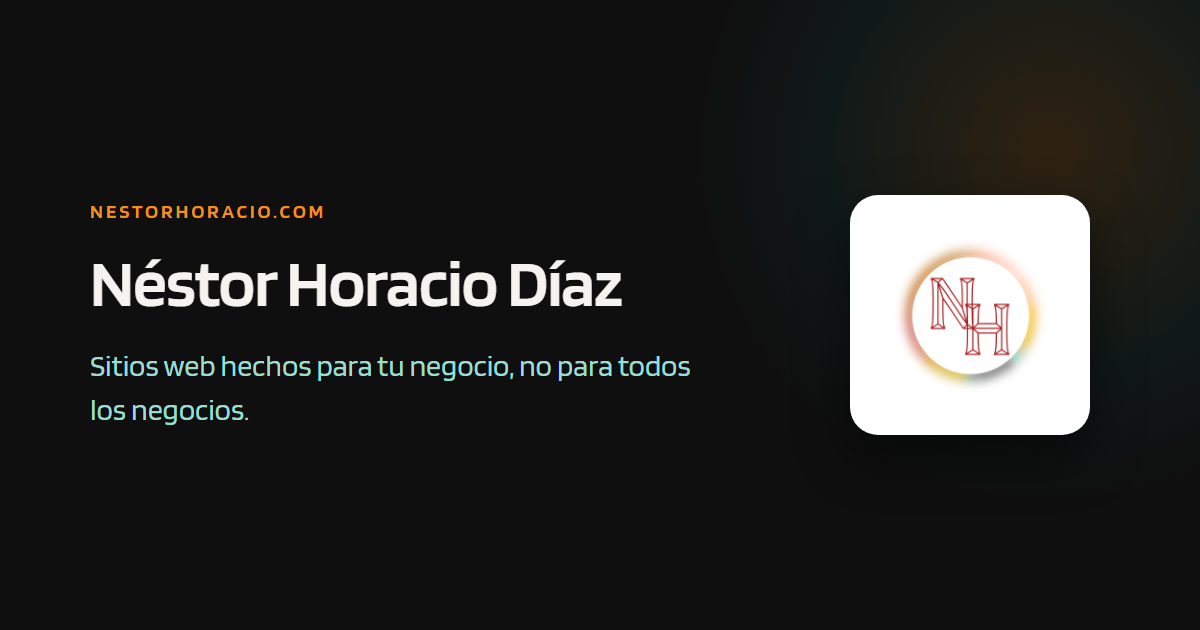
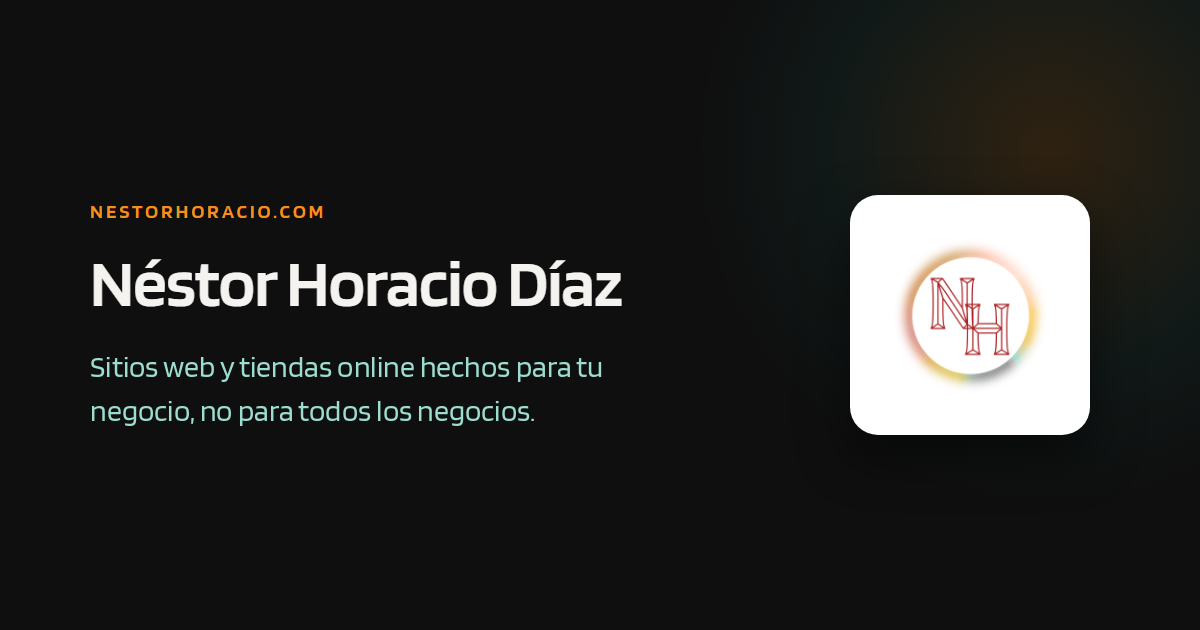
Actualiza la imagen OG con el tagline que incluye tiendas online

Changed region(s): [[0.0617, 0.6333, 0.4625, 0.6937], [0.0617, 0.573, 0.5858, 0.6032]]

diff --git a/ROADMAP.md b/ROADMAP.md
@@ -1,6 +1,10 @@
 # ROADMAP.md — nestorhoracio-astro
 
-## Estado actual (2026-11-25, sesión 20)
+## Estado actual (2026-11-25, sesión 21)
+
+**La imagen OG (`og-default.png`) ya tiene el tagline con tiendas online** (ver changelog). Falta el push, el deploy y, después, el `PURGE` y la verificación en producción.
+
+## Estado anterior (2026-11-25, sesión 20)
 
 **Servicio de tiendas online con WooCommerce agregado al home**, commit y push aprobados por el usuario (ver changelog). Tras el deploy: revisar el home en producción (`PURGE` si la caché muestra la versión vieja) y pedir reindexación en Search Console por el título nuevo. Las tres frases que podían no ser ciertas para una tienda ya se cambiaron por decisión del usuario.
 
@@ -51,6 +55,7 @@ El detalle de la etapa "sitio construido y deployado" (scaffold, diseño portado
 **Pendiente activo #1: cerrar lo del servicio de tiendas online (sesión 20).** Sin constancia de que ya esté hecho:
 1. Revisar el home en producción, incluido el botón "Consultame por WhatsApp" de la tarjeta de tiendas (`PURGE` si la caché muestra la versión vieja).
 2. Pedir la reindexación en Search Console por el título nuevo (lo hace el usuario).
+3. Tras el deploy de la imagen OG nueva (sesión 21): `PURGE` de `/images/og/og-default.png` y comprobar que producción sirve el archivo nuevo.
 
 **El frente del mail del formulario está cerrado.** Resumen del 2026-08-22 (sesión 12):
 - Formulario de contacto migrado de `mail()` nativo a la API de Resend — confirmado funcionando en producción real (mensaje de prueba desde `/contacto/` llegó a la bandeja de entrada de `nesthora@gmail.com`, no a spam).
@@ -69,6 +74,9 @@ El deploy en sí ya está hecho y verificado (sesión 11, ver changelog) — pas
 9. Nota para ese momento: `scripts/fetch-wp-content.mjs`/`npm run fetch:wp` dejan de servir en cuanto WordPress se borra (usan la REST API en vivo) — no rompe nada porque los 8 posts ya están migrados a `.md`, pero conviene anotarlo como código histórico (o borrarlo) en ese momento, no antes.
 
 ## Changelog
+
+### 2026-11-25 (sesión 21) — Imagen OG con el tagline de tiendas online
+- **`public/images/og/og-default.png`** reemplazada por el usuario: el subtítulo pasa a "Sitios web y tiendas online hechos para tu negocio, no para todos los negocios." Sigue en 1200×630 y con el mismo nombre, así que no hubo cambios de código. Con esto deja de valer la nota de la sesión 20 sobre el tagline anterior.
 
 ### 2026-11-25 (sesión 20) — Servicio de tiendas online con WooCommerce
 - **`index.astro`:** quinto servicio (segundo en el orden) con enlace "Consultame por WhatsApp" y mensaje precargado (campo opcional `cta`). Tiendas mencionadas en el párrafo del hero, la meta description (ahora distinta del párrafo, más corta) y la bio de "Sobre mí". A pedido del usuario, los títulos también las mencionan: `<title>` pasa a "Diseñador Web Freelance en Uruguay y Tiendas Online | NH" (conserva entera la frase buscada de la sesión 15) y el h2 del hero a "Sitios web y tiendas online hechos para tu negocio, no para todos los negocios." La imagen OG (`og-default.png`) conserva el tagline anterior.
